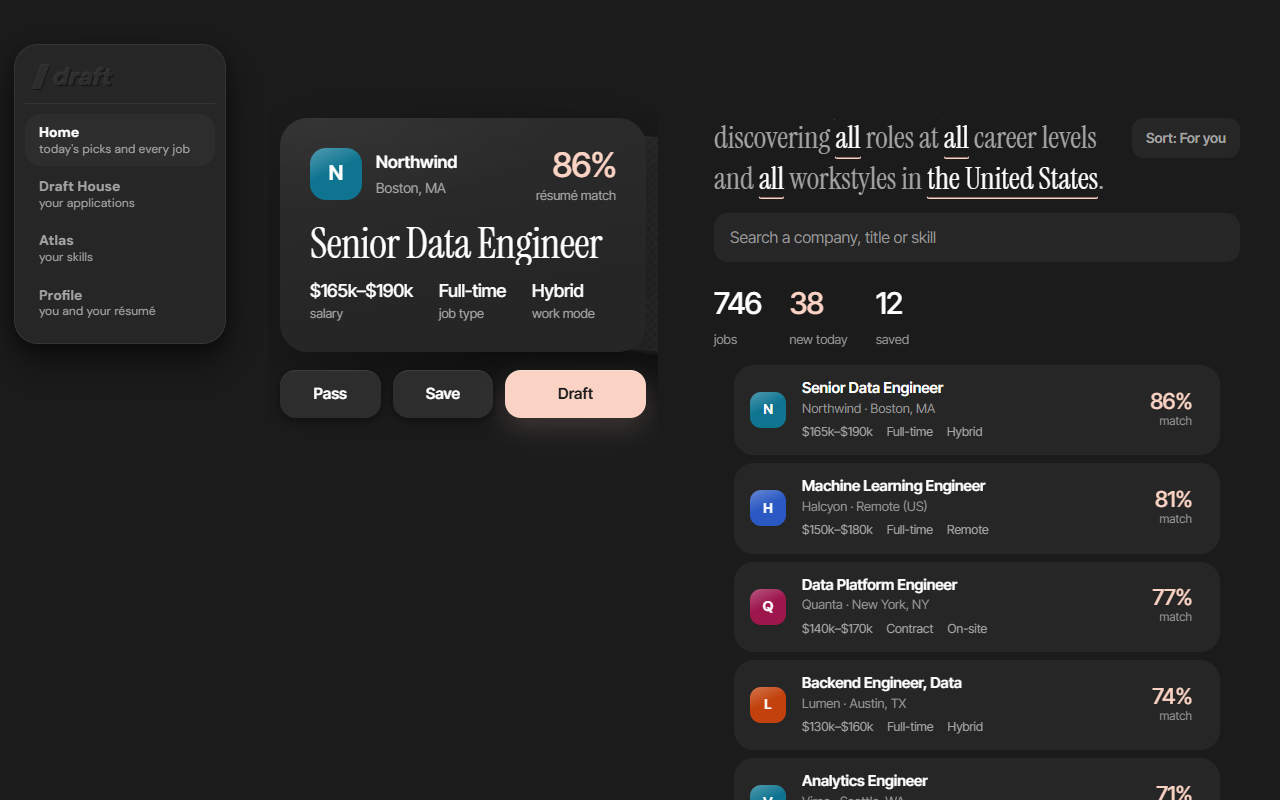
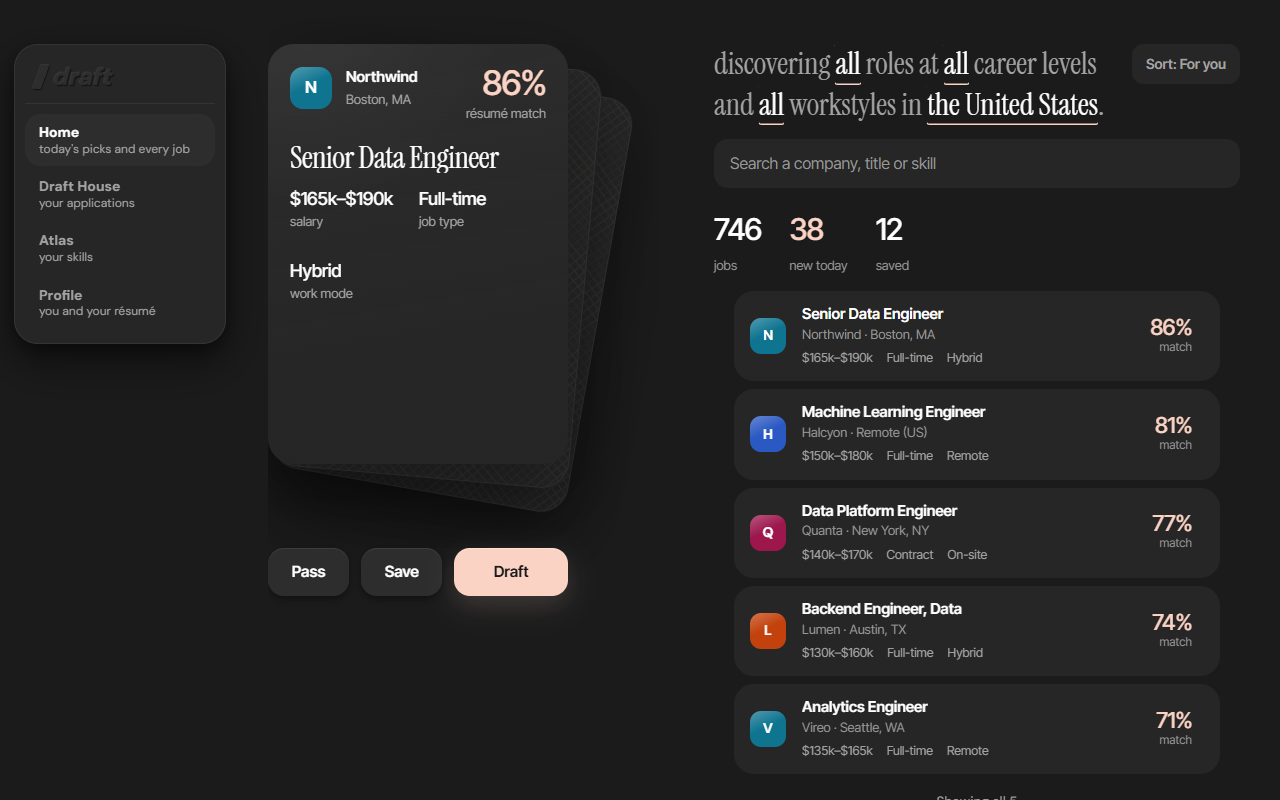
D152 (2) Home: the card is card-shaped (5 : 7) and its fan sweeps to the lower right inside the deck's column
home-sketch.html's .stack / .ghost / .card, step 3 of D152, with D153 (1): the fan's sweep never covers Pass · Save ·
Draft or the board.

- lib/fanGeometry.js: HOME_CARD (300 × 420; on a phone the column, <= 330, less the fan's 80, at 5 : 7) and
  homeFanTransform — the backs turn about the card's LOWER-LEFT corner (transform-origin 0% 100%), 5° a step, two
  shown, a passed card gone rather than fanned behind. Pure, with the corner arithmetic in the test: a 10° back's
  top-right corner moves ≈ 73 px (the column has 90 spare), its bottom-right drops ≈ 52 px (the buttons sit 84 under).
- DeckView `home`: the card at the column's left; HOME_FAN in place of the Customise sliders' geometry (those tune the
  other two layouts); the face is the sketch's — 22 22 18 padding, a 42 px bubble, a 15 / 13 px company and place,
  the 30 px serif title, corner 26; the buttons 84 px under the card at its width; no old 120 px fan padding.
- FullHouse.css: with the dock as the navigation the chrome strip is empty (no corner mark), so Home starts 44 px from
  the top of the screen as the sketch does (the Menu keeps its strip).

Measured in Chrome (fidelityShots --styles home): 1280 — the card 300 × 420 at (40, 44); backs at 5° / 10°, right
edges 375 / 408 in a column ending at 430, bottoms 490 / 516 above the buttons at 548; 390 — 250 × 350, backs to 310 /
337 in a 360 column; nothing over the buttons or the board. Fidelity home 87.8 % / 80.3 %.
[…]

diff --git a/client/src/panels/DeckView.jsx b/client/src/panels/DeckView.jsx
@@ -51,7 +51,7 @@ import { A_PLUS_TOOL, GENERATE_TOOL } from "../lib/applyTools.js";
 import { DECISIONS, counts, deckReducer, fanOrder, initialDeck, isFinished, stepTarget } from "../lib/deckState.js";
 import { DECISION_SURFACES, DECISION_TOAST_MS, DECISION_VERB, commitDecision, undoDecision } from "../lib/jobDecisions.js";
 import DecisionToast from "../components/DecisionToast.jsx";
-import { CARD, EXPAND_CLOCK, TWO_PANEL, cardSize, fanTransform, geometryFor, orientationFor, twoPanelColumn, twoPanelFor } from "../lib/fanGeometry.js";
+import { CARD, EXPAND_CLOCK, TWO_PANEL, HOME_CARD, HOME_FAN, cardSize, fanTransform, geometryFor, homeCardSize, homeFanTransform, orientationFor, twoPanelColumn, twoPanelFor } from "../lib/fanGeometry.js";
 import { useDeckGeometry } from "../hooks/useDeckGeometry.js";
 import { readDeckOrder } from "../lib/deckOrder.js";
 import { postingClick } from "../lib/openPosting.js";
@@ -298,7 +298,7 @@ function AtsSheet({ card, profileId, onClose, onReport }) {
 // and the FULL POSTING stays one press away ("The full posting ↓" — the old expansion, unchanged, with the report beside
 // it on a wide screen). What each depth says is lib/deckCardFacts.js — one function, nothing said twice.
 // ⛔ No coloured labels or boxes on the card (the old band mark, the ring, the green chips); never "ATS".
-function CardFace({ card, headingRef, isFront, expanded, why, onWhy, onExpand, onCollapse, onReport, onSignal, orientation, twoPanel }) {
+function CardFace({ card, headingRef, isFront, expanded, why, onWhy, onExpand, onCollapse, onReport, onSignal, orientation, twoPanel, home = false }) {
   const { job } = card;
   const facts = cardFacts(card);
   const titleId = `deck-title-${job.id}`;
@@ -312,7 +312,9 @@ function CardFace({ card, headingRef, isFront, expanded, why, onWhy, onExpand, o
       onFocus={() => setHover(true)} onBlur={(e) => { if (!e.currentTarget.contains(e.relatedTarget)) setHover(false); }}
       // ⭐ D149: declutter-v7.html's card at BOTH widths — 30 / 30 / 26 padding, a 52 px bubble, the 42 px title, a 26 px
       // gap in the info row (the sketch has no phone rule for them; the app used to shrink each on a phone).
-      style={{ padding: "30px 30px 26px", fontFamily: shape("FONT_UI") }}>
+      // ⭐ D152 (2): on Home the card is card-shaped (300 × 420) and its face is home-sketch.html's .card — 22 22 18
+      // padding, a 42 px bubble, the 30 px serif title.
+      style={{ padding: home ? "22px 22px 18px" : "30px 30px 26px", fontFamily: shape("FONT_UI") }}>
       {/* ⭐ COLLAPSE AT THE TOP TOO (A39), and STICKY — the bottom one is a whole posting away. */}
       {open && (
         <div data-deck-collapse-top style={{ position: "sticky", top: `calc(var(${CHROME_HEIGHT_VAR}, 74px) + 10px)`, height: 0 }}>
@@ -323,11 +325,11 @@ function CardFace({ card, headingRef, isFront, expanded, why, onWhy, onExpand, o
       )}
       <div data-deck-head="" style={{ display: "flex", alignItems: "flex-start", justifyContent: "space-between", gap: 14, paddingRight: open ? 104 : 0 }}>
         <div style={{ display: "flex", alignItems: "center", gap: 14, minWidth: 0 }}>
-          <CompanyLogo company={job.company} iconUrl={job.companyIconUrl} size={52} radius={16} />
+          <CompanyLogo company={job.company} iconUrl={job.companyIconUrl} size={home ? 42 : 52} radius={home ? 13 : 16} />
           <div style={{ minWidth: 0 }}>
-            <div style={{ fontSize: ts(17), fontWeight: 600, color: C.INK, overflow: "hidden", textOverflow: "ellipsis", whiteSpace: "nowrap" }}>{job.company}</div>
+            <div style={{ fontSize: ts(home ? 15 : 17), fontWeight: 600, color: C.INK, overflow: "hidden", textOverflow: "ellipsis", whiteSpace: "nowrap" }}>{job.company}</div>
             {/* ⛔ LOCATION ONLY — "posted … ago" lives in the stats (D145). */}
-            {job.location && <div data-deck-location="" style={{ fontSize: ts(14), color: C.INK_MUTED, marginTop: 1 }}>{job.location}</div>}
+            {job.location && <div data-deck-location="" style={{ fontSize: ts(home ? 13 : 14), color: C.INK_MUTED, marginTop: 1 }}>{job.location}</div>}
           </div>
         </div>
         {/* ⭐ THE MATCH, at the top right — "86%" (or the band's word when the card carries no number, G5) over
@@ -349,8 +351,8 @@ function CardFace({ card, headingRef, isFront, expanded, why, onWhy, onExpand, o
         // ⭐ The shared element (queue 29): this heading IS the job's title on the board's detail and
         // on the review queue's line — one name, so a navigation moves it instead of cutting.
         style={{ fontFamily: "var(--font-display)", fontWeight: 400, lineHeight: 1.04, letterSpacing: "-0.01em", color: C.INK,
-                 fontSize: `calc(42px * var(${TYPE_SCALE_VAR}, 1))`,
-                 margin: "16px 0 12px", outline: "none",
+                 fontSize: `calc(${home ? 30 : 42}px * var(${TYPE_SCALE_VAR}, 1))`,
+                 margin: home ? "18px 0 12px" : "16px 0 12px", outline: "none",
                  ...(deep ? null : { display: "-webkit-box", WebkitLineClamp: 3, WebkitBoxOrient: "vertical", overflow: "hidden" }) }}>
         {job.title}
       </h2>
@@ -478,13 +480,14 @@ const WHY = {
 const POSITION_EASE = "cubic-bezier(0.22, 1, 0.36, 1)";
 const FLIP_EASE = "cubic-bezier(0.34, 1.32, 0.5, 1)";   // a touch of overshoot: the card settles face-up
 
-function FanCard({ entry, orientation, geometry, size, expanded, twoPanel, dimmed, dealing, appear, dealRank, dealTotal, reduced,
+function FanCard({ entry, orientation, geometry, size, expanded, twoPanel, dimmed, dealing, appear, dealRank, dealTotal, reduced, home = false,
                    onDecide, onExpand, onCollapse, onReport, onSignal, onGoto, headingRef, faceRef, why = false, onWhy }) {
   const { card, offset } = entry;
   const isFront = offset === 0;
   // The arc's position. Opening a card does not move it here: the fan lives in the card's grid column,
   // and that column is what moves (A40) — so the arc rides right on the expansion's own clock.
-  const t = fanTransform(offset, orientation, geometry);
+  // ⭐ D152 (2): Home's fan turns each back about the card's lower-left corner (lib/fanGeometry.js homeFanTransform).
+  const t = home ? homeFanTransform(offset, geometry) : fanTransform(offset, orientation, geometry);
   const x = useMotionValue(0);
   const tilt = useTransform(x, [-320, 0, 320], [-10, 0, 10]);
   const draftStamp = useTransform(x, [20, SWIPE_COMMIT_PX + 40], [0, 1]);
@@ -515,12 +518,13 @@ function FanCard({ entry, orientation, geometry, size, expanded, twoPanel, dimme
       variants={{ leave: (d) => d?.variant || { opacity: 0 } }}
       transition={{ type: "spring", stiffness: 260, damping: 32, delay: dealDelay }}
       onClick={!isFront && t.shown ? () => onGoto(entry.i) : undefined}
-      style={{ position: "absolute", top: 0, left: "50%", width: size.width, marginLeft: -size.width / 2,
+      // D152 (2): on Home the card sits at the column's left, the fan's room to its right.
+      style={{ position: "absolute", top: 0, left: home ? 0 : "50%", width: size.width, marginLeft: home ? 0 : -size.width / 2,
                // Layer by TIER: the face-up card is content; the fan sits under it, nearer cards above farther.
                zIndex: isFront ? Z.CONTENT : Z.FAN - t.depth,
                pointerEvents: t.shown ? "auto" : "none", cursor: isFront ? "default" : "pointer" }}>
       <div data-fan-position style={{
-          transform: `translate3d(${t.x}px, ${t.y}px, 0) rotate(${t.rotate}deg) scale(${t.scale})`, opacity,
+          transform: `translate3d(${t.x}px, ${t.y}px, 0) rotate(${t.rotate}deg) scale(${t.scale})`, opacity, transformOrigin: t.origin,
           transition: reduced ? "none" : `transform 460ms ${POSITION_EASE}, opacity 320ms ease`, willChange: "transform, opacity" }}>
         {/* ⛔ SWIPE IS DISABLED WHEN THE CARD IS EXPANDED (A40, decided 10-01). Collapsed is triage —
             swipe freely; expanded is reading — buttons only. A long posting means heavy vertical
@@ -542,10 +546,11 @@ function FanCard({ entry, orientation, geometry, size, expanded, twoPanel, dimme
                      transition: reduced ? "none" : `transform 520ms ${FLIP_EASE} 40ms` }}>
             <article ref={isFront ? faceRef : undefined} aria-labelledby={`deck-title-${card.job.id}`} aria-hidden={!isFront}
               onClick={isFront && !expanded && !why ? (e) => { if (!dragged.current && !isInteractive(e.target)) onWhy?.(true); } : undefined}
-              style={{ position: "relative", minHeight: size.height, borderRadius: 28, backfaceVisibility: "hidden", WebkitBackfaceVisibility: "hidden",
+              // D152 (2): Home's card corner is the sketch's 26.
+              style={{ position: "relative", minHeight: size.height, borderRadius: home ? 26 : 28, backfaceVisibility: "hidden", WebkitBackfaceVisibility: "hidden",
                        // OPAQUE, not see-through glass: over a fan, a translucent face shows the backs
                        // through it (Android found the same with the next card's text, 09-30).
-                       ...glass({ radius: 28 }), backgroundColor: C.SURFACE_SOLID, backdropFilter: "none", WebkitBackdropFilter: "none",
+                       ...glass({ radius: home ? 26 : 28 }), backgroundColor: C.SURFACE_SOLID, backdropFilter: "none", WebkitBackdropFilter: "none",
                        // ⭐ D149: the sketch's card — NO border (no glass rim), its one soft shadow (Dusk's SHADOW_GLASS is the
                        // sketch's 0 30px 70px rgba(0,0,0,.35)).
                        border: "none", boxShadow: C.SHADOW_GLASS,
@@ -554,10 +559,10 @@ function FanCard({ entry, orientation, geometry, size, expanded, twoPanel, dimme
               {showFace && <CardFace card={card} headingRef={headingRef} isFront={isFront} expanded={isFront && expanded}
                                      why={isFront && why} onWhy={onWhy}
                                      onExpand={onExpand} onCollapse={onCollapse} onReport={onReport} onSignal={onSignal}
-                                     orientation={orientation} twoPanel={twoPanel} />}
+                                     orientation={orientation} twoPanel={twoPanel} home={home} />}
             </article>
             <div style={{ position: "absolute", inset: 0, transform: "rotateY(180deg)", backfaceVisibility: "hidden", WebkitBackfaceVisibility: "hidden",
-                          borderRadius: 28, maxHeight: size.height }}>
+                          borderRadius: home ? 26 : 28, maxHeight: size.height }}>
               <CardBack company={card.job.company} iconUrl={card.job.companyIconUrl} />
             </div>
           </div>
@@ -691,11 +696,11 @@ export default function DeckView({ canUseAPlusResume = true, home = false }) {
   // The user's layout (queue 38), FITTED to the screen and overridden by reduced motion — geometryFor
   // is the only road from a stored preference to the fan.
   const [deckPref] = useDeckGeometry();
-  const geometry = { ...geometryFor(orientation, deckPref, { reduced: !!reduced }), ...(DEV_FAN?.[orientation] || null) };
+  const geometry = home ? HOME_FAN : { ...geometryFor(orientation, deckPref, { reduced: !!reduced }), ...(DEV_FAN?.[orientation] || null) };
   // ⭐ TWO EQUAL PANELS (A40) on a wide horizontal screen: the card is one column wide at rest AND open,
   // so opening never resizes it. Below TWO_PANEL_PX the report is a sheet and the card is as it was.
   const twoPanel = home ? false : twoPanelFor(vw);
-  const size = twoPanel ? { width: twoPanelColumn(vw), height: CARD.horizontal.height } : cardSize(orientation, vw);
+  const size = home ? homeCardSize(viewportW) : twoPanel ? { width: twoPanelColumn(vw), height: CARD.horizontal.height } : cardSize(orientation, vw);
 
   const scoringTries = useRef(0);
   const fetchDeck = useCallback(async () => {
@@ -934,8 +939,8 @@ export default function DeckView({ canUseAPlusResume = true, home = false }) {
       <div data-deck-orientation={orientation} data-deck-two-panel={twoPanel ? "" : undefined} data-deck-home={home ? "" : undefined}
         style={{ maxWidth: home ? HOME_DECK_COLUMN : twoPanel ? TWO_PANEL.maxWidth + 2 * TWO_PANEL.pad : vertical ? 560 : 760, margin: "0 auto",
                  // ⭐ D149: the card's top at the sketch's 90 px — the chrome's 74 + 16 (App.jsx gives the deck no main padding).
-                 // D152: on Home the column's own padding places it; the fan's room below stays.
-                 padding: home ? "0 0 120px" : vertical ? "16px 12px 120px" : "16px 16px 140px",
+                 // D152: on Home the column's own padding places it, and the fan's room is above the buttons (HOME_CARD.below).
+                 padding: home ? 0 : vertical ? "16px 12px 120px" : "16px 16px 140px",
                  // ⛔ D92: never `clip` here, in either layout. Clipping this 560px column sliced the vertical fan's
                  // outer cards with two hard vertical lines (the "cut out and pasted" deck); the full-width
                  // data-deck-clip above already stops a sideways page scroll, at the SCREEN's edge.
@@ -1059,7 +1064,7 @@ export default function DeckView({ canUseAPlusResume = true, home = false }) {
                     remove a card, so only a decided card ever plays an exit. */}
                 <AnimatePresence initial custom={leave}>
                   {order.map((e) => (
-                    <FanCard key={e.card.job.id} entry={e} orientation={orientation} geometry={geometry} size={size}
+                    <FanCard key={e.card.job.id} entry={e} orientation={orientation} geometry={geometry} size={size} home={home}
                       expanded={expanded} twoPanel={twoPanel} dimmed={expanded} dealing={dealing} appear={!firstPaint.current} reduced={!!reduced} dealRank={Math.max(0, dealTotal - 1 - Math.abs(e.offset))}
                       dealTotal={dealTotal} onDecide={decide} onExpand={() => setExpanded(true)} onCollapse={() => setExpanded(false)}
                       why={why} onWhy={(v) => { setWhy(v); if (!v) setExpanded(false); }}
@@ -1074,7 +1079,8 @@ export default function DeckView({ canUseAPlusResume = true, home = false }) {
                   reachable without scrolling back. It is above the fan by tier, and in the card's own
                   column, so it travels with the card when the report opens. */}
               <div data-deck-actions style={{ position: "sticky", bottom: "calc(16px + var(--appnav-lift, 0px))", transition: "bottom .3s ease", zIndex: Z.NAV, display: "flex", gap: 12,
-                                              marginTop: vertical ? 18 : 22, maxWidth: size.width, marginLeft: "auto", marginRight: "auto" }}>
+                                              // D152 (2) / D153 (1): on Home, under the fan's sweep (HOME_CARD.below), at the card's left.
+                                              marginTop: home ? HOME_CARD.below : vertical ? 18 : 22, maxWidth: size.width, marginLeft: home ? 0 : "auto", marginRight: "auto" }}>
                 <ActionButton label="Pass" ariaKeys="X ArrowLeft" compact={vertical} onClick={() => decide(DECISIONS.PASSED)} />
                 <ActionButton label="Save" ariaKeys="S" compact={vertical} onClick={() => decide(DECISIONS.SAVED)} />
                 <ActionButton label="Draft" ariaKeys="D ArrowRight" compact={vertical} primary onClick={() => decide(DECISIONS.DRAFTED)} />

diff --git a/test/fidelity.test.js b/test/fidelity.test.js
@@ -9,7 +9,10 @@ import { execFileSync } from "node:child_process";
 const probe = (screen) => JSON.parse(execFileSync(process.execPath, ["scripts/fidelityShots.mjs", "--styles", screen],
   { encoding: "utf8", timeout: 180000, stdio: ["ignore", "pipe", "ignore"] }).trim().split("\n").pop());
 
-test("fidelity · the deck (declutter-v7.html): the page, the card, its type, the Draft button — no bar, no controls row", { timeout: 200000 }, (t) => {
+// ⭐ D152 (1) / (2), changed on purpose (11-04): /app is HOME, and the deck is its left column — home-sketch.html's .card
+// (300 × 420, corner 26, 22 22 18 padding, a 15 px company, the 30 px serif title, 44 px from the top of the screen) now,
+// not declutter-v7.html's 640 × 232 (D152: Home replaces D149's first two screens).
+test("fidelity · the deck on Home (home-sketch.html): the page, the card, its type, the Draft button — no bar, no controls row", { timeout: 200000 }, (t) => {
   const out = probe("deck");
   if (out.skipped) { t.skip(out.skipped); return; }
   for (const [size, d] of Object.entries(out)) {
@@ -17,19 +20,17 @@ test("fidelity · the deck (declutter-v7.html): the page, the card, its type, th
     assert.equal(d.topBar, "rgba(0, 0, 0, 0)", `${size}: no top bar band — the mark floats`);
     assert.equal(d.controlsRow, false, `${size}: no controls row above the card`);
     assert.equal(d.card.bg, "rgb(38, 38, 38)", `${size}: the card is the sketch's --card`);
-    assert.equal(d.card.radius, "28px", `${size}: card radius 28`);
+    assert.equal(d.card.radius, "26px", `${size}: card radius 26`);
     assert.equal(d.card.border, "0px", `${size}: no border on the card`);
     assert.equal(d.card.shadow, "rgba(0, 0, 0, 0.35) 0px 30px 70px 0px", `${size}: the sketch's one shadow`);
-    assert.equal(d.card.top, 90, `${size}: the card's top at the sketch's 90 px`);
+    assert.equal(d.card.top, size === "phone" ? 28 : 44, `${size}: the card's top at the sketch's padding (44, a phone's 28)`);
     assert.match(d.title.family, /^"Instrument Serif"/, `${size}: the title in Instrument Serif`);
-    assert.equal(d.title.size, "42px", `${size}: the title at 42 px`);
+    assert.equal(d.title.size, "30px", `${size}: the title at 30 px`);
     assert.equal(d.title.weight, "400");
     assert.match(d.company.family, /^"Inter Tight"/, `${size}: the interface face is Inter Tight`);
-    assert.deepEqual([d.company.size, d.company.weight], ["17px", "600"]);
+    assert.deepEqual([d.company.size, d.company.weight], ["15px", "600"]);
     assert.deepEqual([d.draft.bg, d.draft.color], ["rgb(251, 211, 196)", "rgb(27, 27, 27)"], `${size}: Draft in the accent, its dark label`);
   }
-  assert.equal(out.phone.card.width, 366, "the phone card is the sketch's 366");
-  // 1280 is the two-panel layout (the report opens beside the card): its column is 612, not the sketch's 640 — the one
-  // measured difference, recorded for the owner's sign-off.
-  assert.ok(out.desktop.card.width >= 600 && out.desktop.card.width <= 640, `desktop card ${out.desktop.card.width}`);
+  assert.equal(out.phone.card.width, 250, "the phone card: the column (330) less the fan's 80");
+  assert.equal(out.desktop.card.width, 300, "the computer's card is the sketch's 300");
 });

diff --git a/test/d152Home.test.js b/test/d152Home.test.js
@@ -74,4 +74,36 @@ test("d152DockLeftWithLogo / d153DockPushes / d152DockSlidesFromLeftEdge (real C
   assert.equal(out.phone.grid.columns.split(" ").length, 1, "one column on a phone");
   assert.ok(out.phone.grid.deck.bottom <= out.phone.grid.board.top, "d152PhoneOrderDeckThenPostings");
   assert.equal(out.phone.handle, true, "a touch screen opens it from the edge handle");
+  // ⭐ D152 (2) / D153 (1): the card is card-shaped, its fan sweeps to the lower right inside the deck's column, and the
+  // sweep never covers Pass · Save · Draft or the board.
+  for (const [size, d] of Object.entries(out)) {
+    const { card, backs, acts } = d.deck;
+    assert.ok(Math.abs(card.width / (card.bottom - card.top) - 5 / 7) < 0.01, `${size}: d152CardFiveBySeven (${card.width} × ${card.bottom - card.top})`);
+    const shown = backs.filter(b => b && Number(b.opacity) > 0);
+    assert.deepEqual(shown.map(b => b.rotate), ["5", "10"], `${size}: two backs, turned 5° and 10°`);
+    for (const b of shown) {
+      assert.equal(b.left, card.left, `${size}: d152FanLowerRight — back ${b.n} turns about the card's lower-left corner`);
+      assert.ok(b.right > card.right && b.bottom > card.bottom, `${size}: back ${b.n} sweeps right and down`);
+    }
+    assert.equal(d.deck.backsCoverButtons, false, `${size}: d153FanNeverCoversButtons`);
+    assert.equal(d.deck.backsCoverBoard, false, `${size}: the fan never reaches the board's column`);
+    assert.equal(d.deck.backsOutsideColumn, false, `${size}: the fan stays inside the deck's column (no clipped edge)`);
+    assert.equal(acts.width, card.width, `${size}: the buttons as wide as the card`);
+  }
+  assert.deepEqual([out.desktop.deck.card.width, out.desktop.deck.card.bottom - out.desktop.deck.card.top], [300, 420]);
+});
+
+test("d152 (2) · Home's card size and fan transform (pure)", async () => {
+  const { HOME_CARD, HOME_FAN, homeCardSize, homeFanTransform } = await import("../client/src/lib/fanGeometry.js");
+  assert.deepEqual(homeCardSize(1280), { width: 300, height: 420 });
+  assert.deepEqual(homeCardSize(390), { width: 250, height: 350 }, "the phone column (330) less the fan's 80, at 5 : 7");
+  assert.equal(HOME_FAN.visible, 2);
+  assert.deepEqual(homeFanTransform(0), { x: 0, y: 0, rotate: 0, scale: 1, opacity: 1, shown: true, depth: 0, origin: "0% 100%" });
+  assert.deepEqual([1, 2, 3].map(n => [homeFanTransform(n).rotate, homeFanTransform(n).shown]), [[5, true], [10, true], [0, false]]);
+  assert.equal(homeFanTransform(-1).shown, false, "a passed card is gone, not fanned behind");
+  assert.equal(homeFanTransform(2).origin, "0% 100%");
+  // the 10° back's corners: top-right moves ≤ 90 px right (the column's spare), bottom-right drops < the 84 px gap
+  const r = (10 * Math.PI) / 180;
+  assert.ok(HOME_CARD.height * Math.sin(r) + HOME_CARD.width * (Math.cos(r) - 1) <= 390 - HOME_CARD.width);
+  assert.ok(HOME_CARD.width * Math.sin(r) < HOME_CARD.below);
 });

diff --git a/client/src/lib/fanGeometry.js b/client/src/lib/fanGeometry.js
@@ -63,6 +63,32 @@ export function cardSize(orientation, viewportWidth) {
 
 const rad = (deg) => (deg * Math.PI) / 180;
 
+// ── ⭐ D152 (2) · HOME'S CARD AND ITS FAN (home-sketch.html .stack / .ghost) ─────────────────────────────────────────
+//
+// On Home the card is CARD-SHAPED — playing-card proportions, 5 : 7 — and the deck takes only the column it needs (390).
+// The fan is the sketch's: the backs turn about the card's LOWER-LEFT corner (transform-origin 0% 100%), 5° a step, so
+// the stack sweeps through the lower-right quadrant of its circle and stays inside the column's 90 px to the right of
+// the card (a 10° back's top-right corner moves 420·sin 10° ≈ 73 px). Its bottom-right corner drops 300·sin 10° ≈ 52 px,
+// which is why the buttons sit 84 px under the card (the sketch's margin) — the sweep never covers Pass · Save · Draft
+// (D153 (1)). Two backs show; a passed card is gone, not fanned behind. Not the Customise sliders' fan (those tune the
+// other two orientations); reduced motion only drops the movement, the shape is the same.
+export const HOME_CARD = Object.freeze({ width: 300, height: 420, phoneMax: 330, phoneGutter: 80, below: 84, stackPx: 980 });
+export const HOME_FAN = Object.freeze({ zoom: 1, spread: 5, reach: 0, visible: 2 });
+/** The Home card's size: 300 × 420 on a computer; on a phone the column (≤ 330) less the fan's 80 px, at 5 : 7. */
+export function homeCardSize(viewportWidth) {
+  if (viewportWidth > HOME_CARD.stackPx) return { width: HOME_CARD.width, height: HOME_CARD.height };
+  const col = Math.min(HOME_CARD.phoneMax, viewportWidth - 36);
+  const width = Math.max(200, col - HOME_CARD.phoneGutter);
+  return { width, height: Math.round((width * 7) / 5) };
+}
+/** Where Home's card `offset` places from the front sits: turned about its lower-left corner, never moved. */
+export function homeFanTransform(offset, geometry = HOME_FAN) {
+  const origin = "0% 100%";
+  if (offset === 0) return { x: 0, y: 0, rotate: 0, scale: 1, opacity: 1, shown: true, depth: 0, origin };
+  const shown = offset > 0 && offset <= geometry.visible;
+  return { x: 0, y: 0, rotate: shown ? offset * geometry.spread : 0, scale: 1, opacity: shown ? 1 : 0, shown, depth: Math.abs(offset), origin };
+}
+
 /**
  * Where the card `offset` places from the front sits. offset 0 is the front card; positive offsets
  * are the cards still to come, negative the ones rotated past. Returns a transform relative to the

diff --git a/test/deckExpandedTwoPanel.test.js b/test/deckExpandedTwoPanel.test.js
@@ -39,7 +39,8 @@ test("⭐ the grid is the trick: the report's column grows 0fr → 1fr and PUSHE
   assert.match(col, /data-deck-stage/, "the fan lives in the card's column, so it moves WITH it");
   assert.match(col, /data-deck-actions/, "and so does the action row");
   // No per-card shift: nothing positions the card for the expansion — the column does.
-  assert.match(deckSrc, /const t = fanTransform\(offset, orientation, geometry\);/);
+  // ⭐ D152 (2), changed on purpose: Home's card turns about its lower-left corner (homeFanTransform); the arc is the rest.
+  assert.match(deckSrc, /const t = home \? homeFanTransform\(offset, geometry\) : fanTransform\(offset, orientation, geometry\);/);
   assert.match(grid, /minmax\(0,/, "minmax(0, …): an fr column's auto minimum would keep a closed column open");
 });
 
@@ -114,7 +115,8 @@ test("⭐ two panels from TWO_PANEL_PX — where two EQUAL columns each hold a c
     assert.ok(2 * w + gap <= Math.min(TWO_PANEL.maxWidth, vw - 2 * pad), `${vw}: two columns overflow`);
   }
   // One width at rest and open: the card IS a column wide, so opening only moves it.
-  assert.match(deckSrc, /const size = twoPanel \? \{ width: twoPanelColumn\(vw\), height: CARD\.horizontal\.height \} : cardSize\(orientation, vw\);/);
+  // ⭐ D152 (2), changed on purpose: Home's card is its own 5 : 7 size (homeCardSize) and never two-panel.
+  assert.match(deckSrc, /const size = home \? homeCardSize\(viewportW\) : twoPanel \? \{ width: twoPanelColumn\(vw\), height: CARD\.horizontal\.height \} : cardSize\(orientation, vw\);/);
   assert.match(grid, /width: size\.width, flexShrink: 0/, "the report is as wide as its OPEN column from the first frame");
   // D32: + alignSelf stretch, so the column is the card's height and the report inside it can be STICKY.
   assert.match(grid, /data-deck-ats-col style=\{\{ minWidth: 0, overflowX: "clip", display: "flex", justifyContent: "flex-end", alignSelf: "stretch" \}\}/,

diff --git a/client/src/components/FullHouse.css b/client/src/components/FullHouse.css
@@ -340,6 +340,10 @@
    padding makes room for it (the sketch's body.docked .home), so it never covers the deck or the sentence. */
 :root[data-dock-open="true"] .home { padding-left: 268px; }
 .home__deck { position: sticky; top: calc(var(--app-chrome-height, 74px) + 44px); align-self: start; width: 390px; }
+/* With the dock as the navigation there is nothing in the chrome strip (D152 (4): no corner mark), so Home starts at the
+   sketch's 44 px from the top of the screen, not 44 under an empty strip. The Menu keeps its button there, and the strip. */
+:root:not([data-navigation="menu"]) .home { margin-top: calc(-1 * var(--app-chrome-height, 74px)); }
+:root:not([data-navigation="menu"]) .home__deck { top: 44px; }
 .home__board { min-width: 0; }
 .home__board .fh[data-fh-d147], .home__board .fh.fh--bar-row, .home__board .fh.fh-counts { max-width: none; padding-left: 0; padding-right: 0; }
 .home__board .fh[data-fh-d147] { padding-top: 0; }
